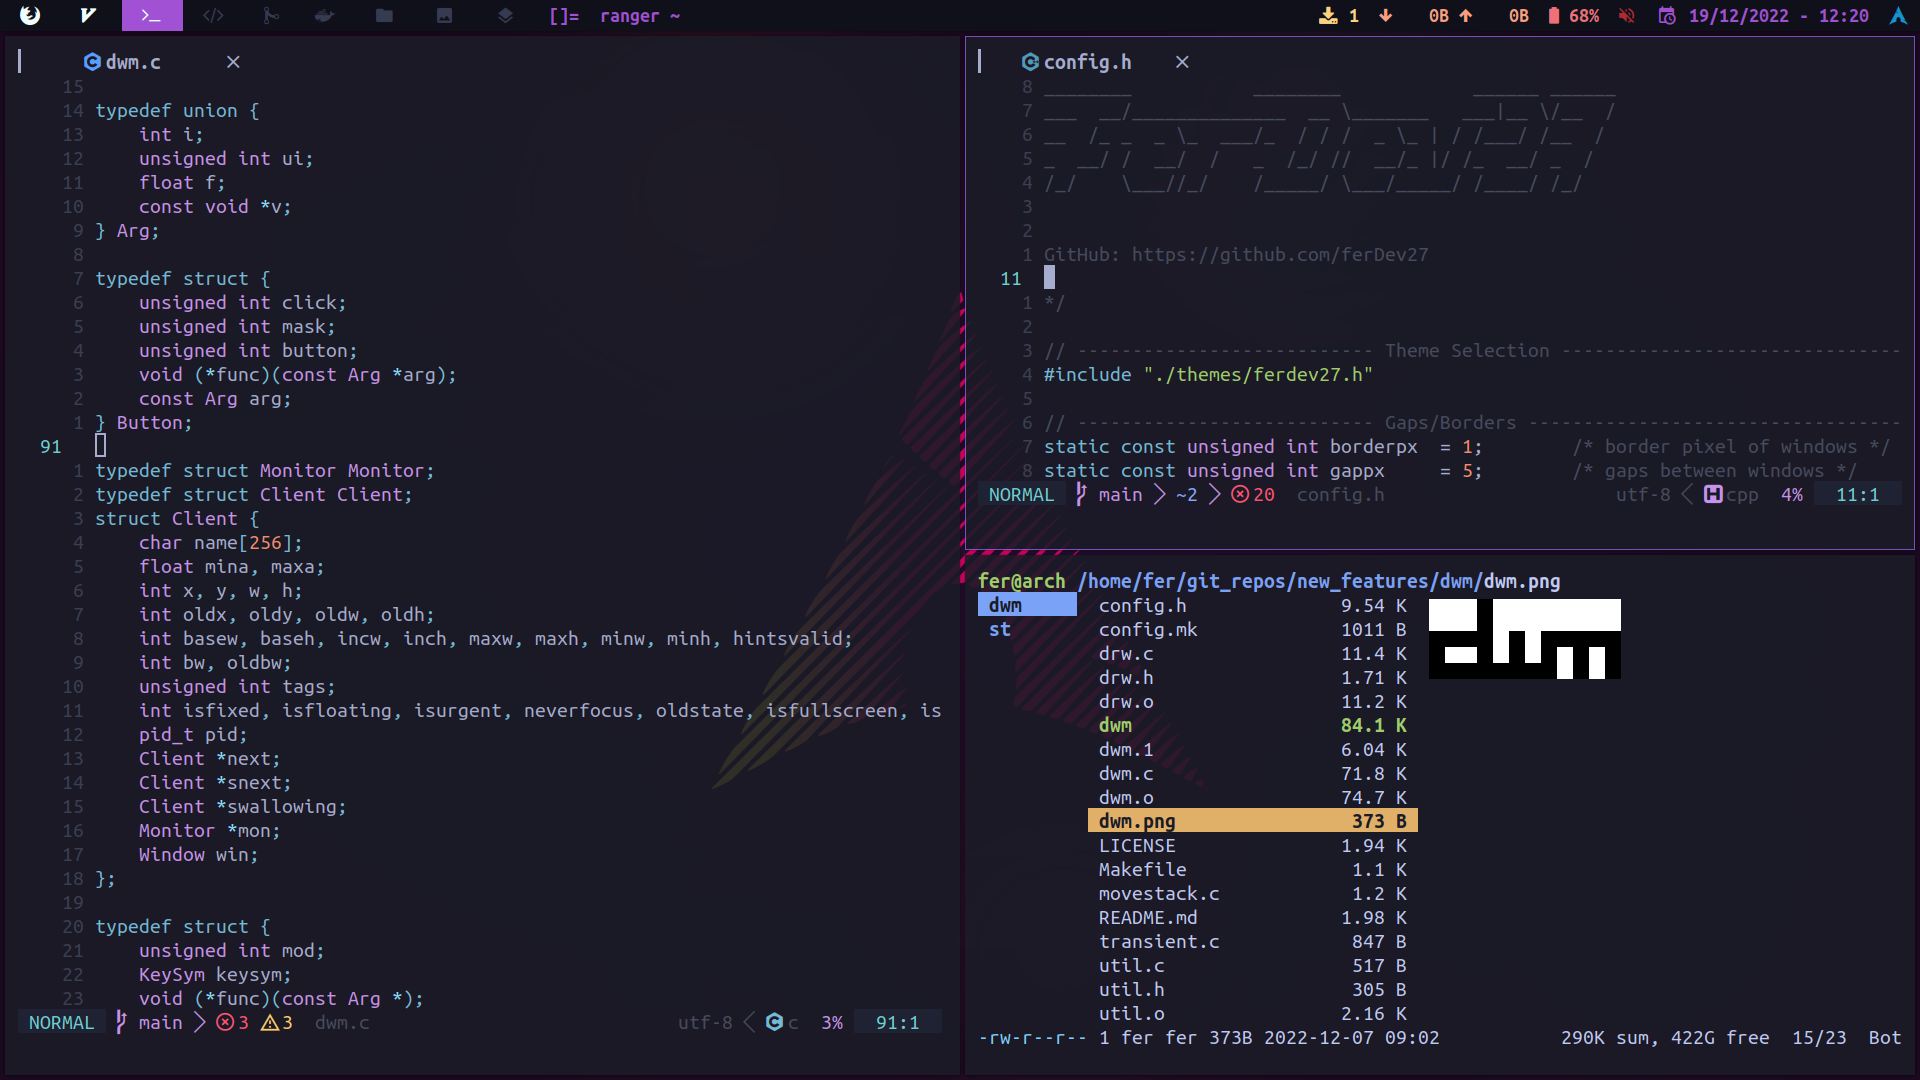
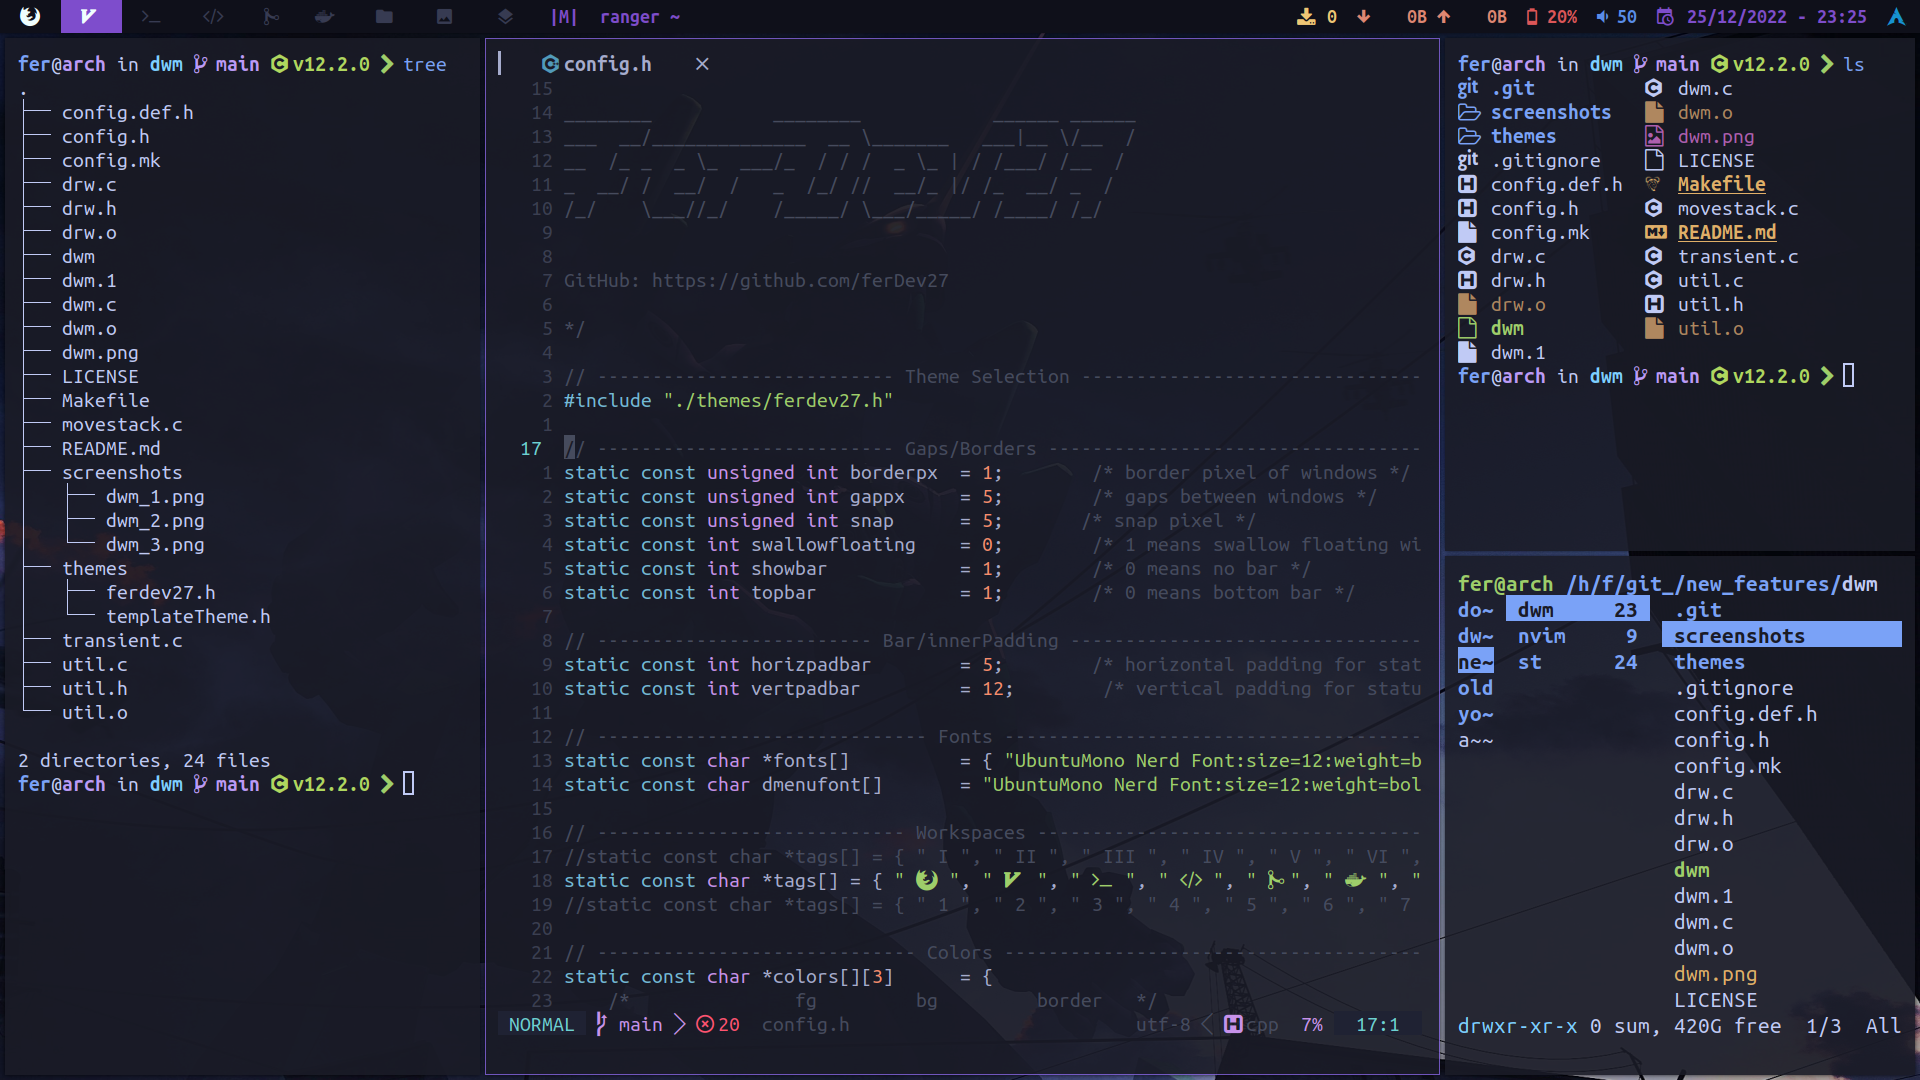
tweak cs

diff --git a/themes/ferdev27.h b/themes/ferdev27.h
@@ -4,15 +4,13 @@
 static const char col_barbg[]		= "#0f101a"; 
 
 //Tag square bg
-//static const char col_tagbg[]		= "#1e1f33";  
-static const char col_tagbg[]		= "#a151d3";  
+static const char col_tagbg[]		= "#7e4dcc";  
 
 // Window border
 static const char col_winSel[]		= "#7a5ccc";
 static const char col_winUnSel[]	= "#1a1b26";
 
 // tag icons/numbers fg(selected) and bg(empty)
-//static const char col_wsfg[]		= "#ecf0c1"; 
 static const char col_wsfg[]		= "#f1ffff"; 
 static const char col_wsbg[]		= "#373b52"; 
 
@@ -20,5 +18,5 @@ static const char col_wsbg[]		= "#373b52";
 static const char col_occ[]         = "#f1ffff"; 
 
 // title
-static const char col_tifg[]         = "#a151d3"; 
+static const char col_tifg[]         = "#7e4dcc"; 
 static const char col_tibg[]         = "#0f101a"; 
